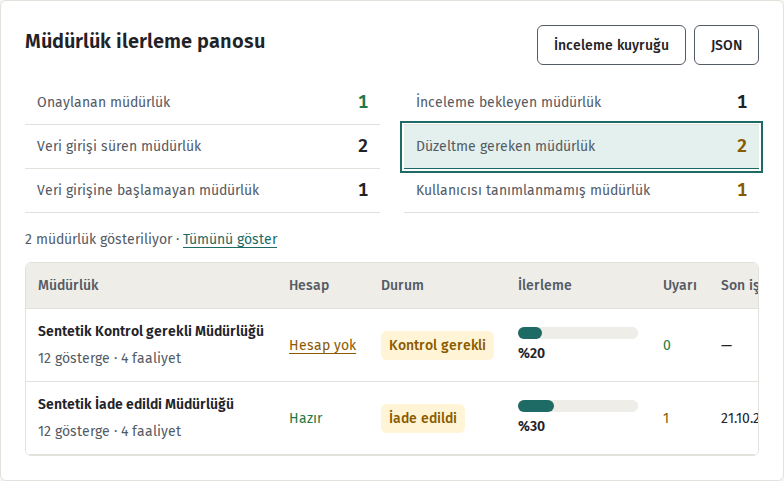
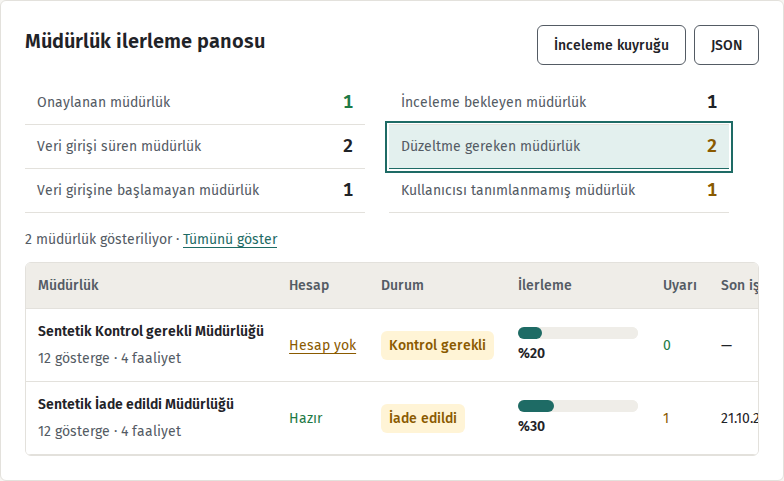
CIV-121 ilerleme listesini daralt

diff --git a/app/static/design/dashboard.css b/app/static/design/dashboard.css
@@ -95,6 +95,7 @@
   display: grid;
   grid-template-columns: minmax(0,1fr);
   column-gap: var(--space-6);
+  max-width: 44rem;
   margin: var(--space-4) 0;
 }
 #mudurluk-ilerleme .progress-row {

diff --git a/tests/test_dashboard_design.py b/tests/test_dashboard_design.py
@@ -270,6 +270,14 @@ def test_021_022_browser_layout_contrast_and_period_actions(browser, dashboard_c
                 assert row_sizes(progress_rows) == [2, 2, 2]
                 assert progress_rows.count() == 6
                 if width == 1440:
+                    progress_list = root.locator('#mudurluk-ilerleme .progress-list')
+                    list_measurement = progress_list.evaluate(
+                        "el => ({width: el.getBoundingClientRect().width, "
+                        "right: el.getBoundingClientRect().right, "
+                        "maxWidth: parseFloat(getComputedStyle(el).maxWidth), "
+                        "rem: parseFloat(getComputedStyle(document.documentElement).fontSize)})"
+                    )
+                    assert list_measurement['width'] <= 44 * list_measurement['rem'], list_measurement
                     measurements = [row.evaluate(
                         "el => { const number = el.querySelector('b'); const style = getComputedStyle(el); "
                         "return {height: el.getBoundingClientRect().height, "
@@ -280,6 +288,8 @@ def test_021_022_browser_layout_contrast_and_period_actions(browser, dashboard_c
                     assert all(row['height'] <= 44 for row in measurements), measurements
                     assert all(row['textAlign'] == 'right' for row in measurements), measurements
                     assert all(abs(row['numberRight'] - row['contentRight']) <= 1 for row in measurements), measurements
+                    assert all(row['numberRight'] <= list_measurement['right'] for row in measurements), (
+                        list_measurement, measurements)
             if width == 1440:
                 summary, main = root.locator('.dashboard-summary'), root.locator('.dashboard-main')
                 assert summary.bounding_box()['x'] >= main.bounding_box()['x'] + main.bounding_box()['width']
